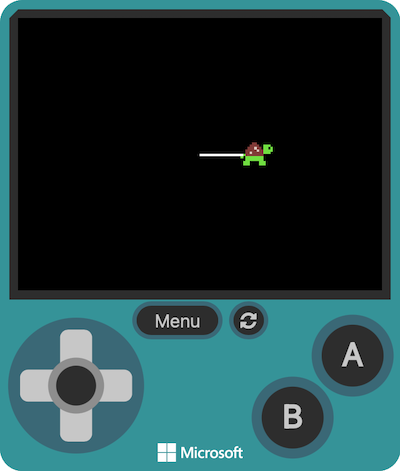
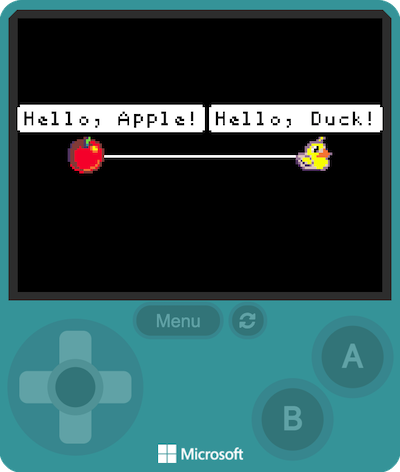
added new image

diff --git a/README.md b/README.md
@@ -2,74 +2,34 @@
 
 # Turtle Logo - Lesson #2
 
-## Turtle Logo - Lesson #2 @unplugged
+## Turtle Logo - Lesson #2, with variables and sprites @unplugged
 **Making the Turtle Move.**
 
-In this lesson you will make your **Turtle** move.
-![Hello, World!](https://github.com/Mr-Coxall/makecode-arcade-turtle-logo-lesson2/raw/main/assets/move_screenshot.png)
+In this lesson you will make your **Turtle Objects** move.
+![move](https://github.com/Mr-Coxall/makecode-arcade-turtle-logo-lesson2-advanced/raw/main/assets/move_screenshot.png)
 
 ## Step 1
-** Follow Along**
-
-Once again, all our programs begin with an ⇢``on start``⇠ block. Then you need to add the **Turtle** using the ⇢``show turtle``⇠ block.
-```blocks
-turtle.showTurtle()
-```
-
-## Step 2
-** Follow Along**
-
-To move the **Turtle** you will use the ⇢``move turtle forward 25 steps``⇠ block and place it inside the ⇢``on start``⇠ block after the ⇢``show turtle``⇠ block.
-```blocks
-turtle.showTurtle()
-turtle.moveTurtleDirection(TurtleDirection.Forward, 25)
-```
-
-## Step 3
-** Try it Out**
-
-Notice the number 25 in the block. The number can be changed to move the **Turtle** a different distance. Try moving the **Turtle** some different distances.
-```blocks
-turtle.showTurtle()
-turtle.moveTurtleDirection(TurtleDirection.Forward, 75)
-```
-
-## Step 4
-** Follow Along**
-
-You might have also noticed the word "forward" is actually a menu. If you select it, you have the option to go forwards or backwards.
-```blocks
-turtle.showTurtle()
-turtle.moveTurtleDirection(TurtleDirection.Backward, 25)
-```
-
-## Step 5
-** Try it Out**
-
-Try moving the **Turtle** some different distances backwards.
-```blocks
-turtle.showTurtle()
-turtle.moveTurtleDirection(TurtleDirection.Backward, 30)
-```
-
-## Step 6
-**Success!**
-
-You can now make the **Turtle** move forwards and backwards.
-
-## Step 7
-**Your Turn**
-
-Get your **Turtle** to:
-- move forwards
-- move backwards
-- then say, "I just moved!"
-
-## Step 8
-**Done**
-
-You have successfully completed your second lesson in Turtle Logo.
+Code your solution below.
 
 ```ghost
-turtle.say("Hello, World!")
+let myTurtle = turtle.fromSprite(sprites.create(img`
+    . . . . . . . . . . . . . . . . 
+    . . . . . . . . . . . . . . . . 
+    . . . . . . . . . . . . . . . . 
+    . . . . . . . . . . . . . . . . 
+    . . . . . . . . . . . . . . . . 
+    . . . . . . . . . . . . . . . . 
+    . . . . . . . . . . . . . . . . 
+    . . . . . . . . . . . . . . . . 
+    . . . . . . . . . . . . . . . . 
+    . . . . . . . . . . . . . . . . 
+    . . . . . . . . . . . . . . . . 
+    . . . . . . . . . . . . . . . . 
+    . . . . . . . . . . . . . . . . 
+    . . . . . . . . . . . . . . . . 
+    . . . . . . . . . . . . . . . . 
+    . . . . . . . . . . . . . . . . 
+    `, SpriteKind.Player))
+myTurtle.moveDirection(TurtleDirection.Forward, 25)
+myTurtle.say("Hello, World!")
 ```
